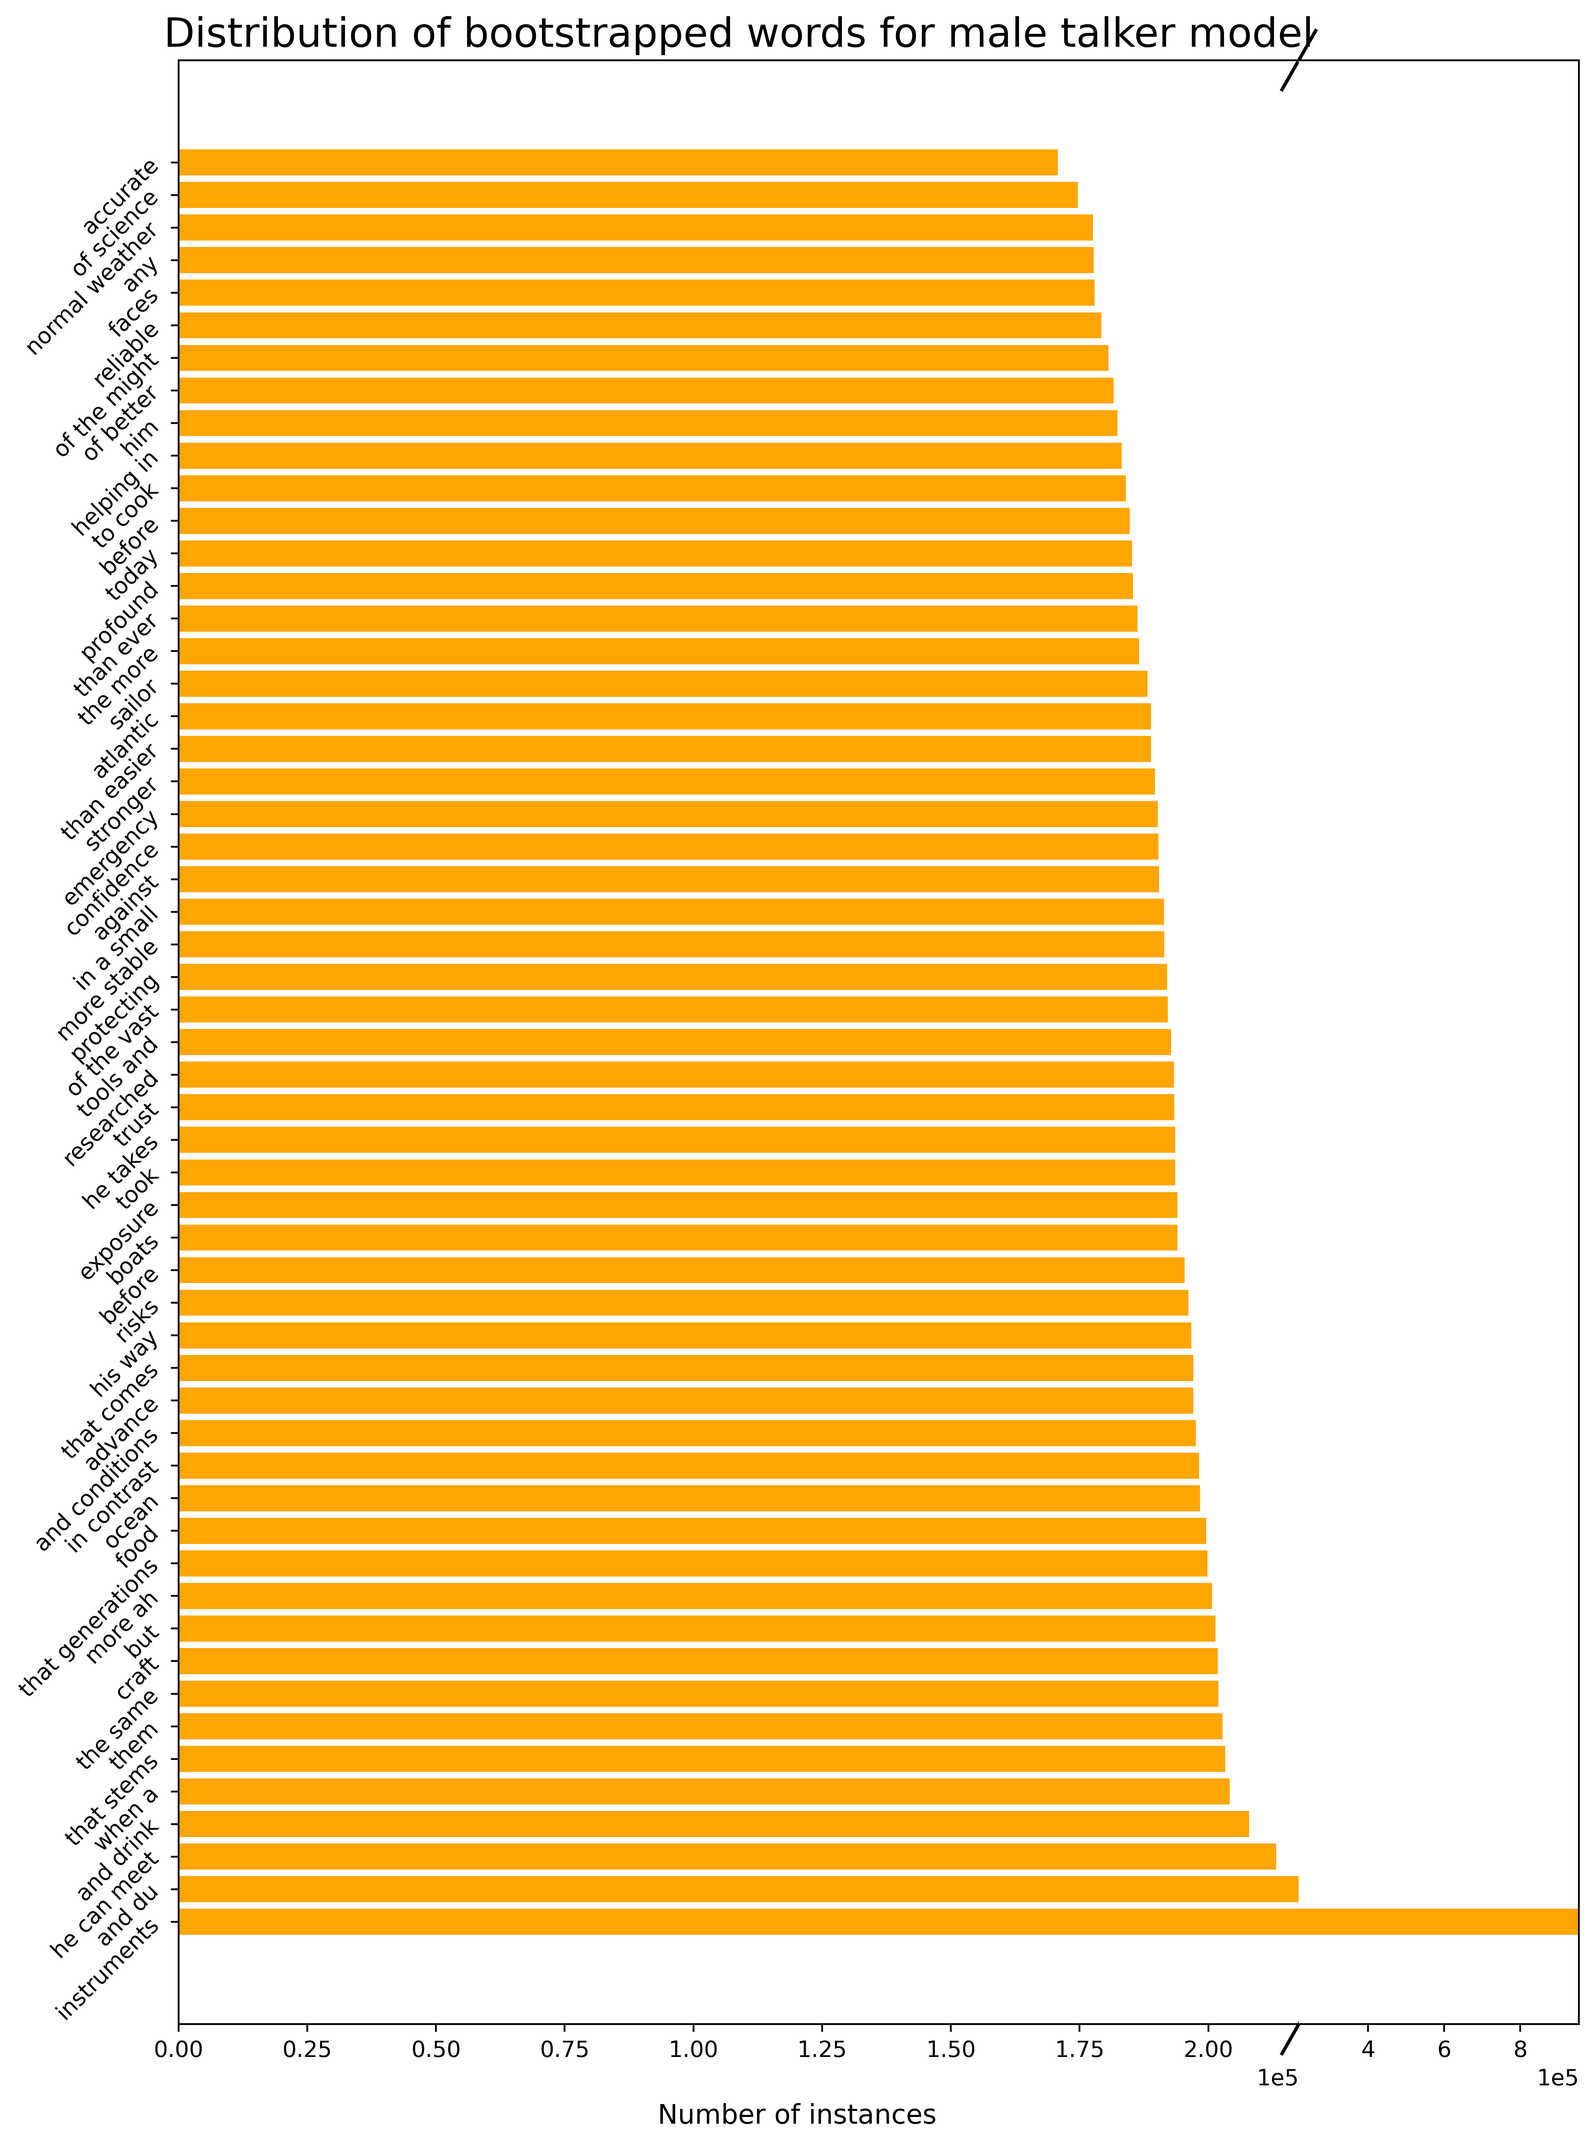
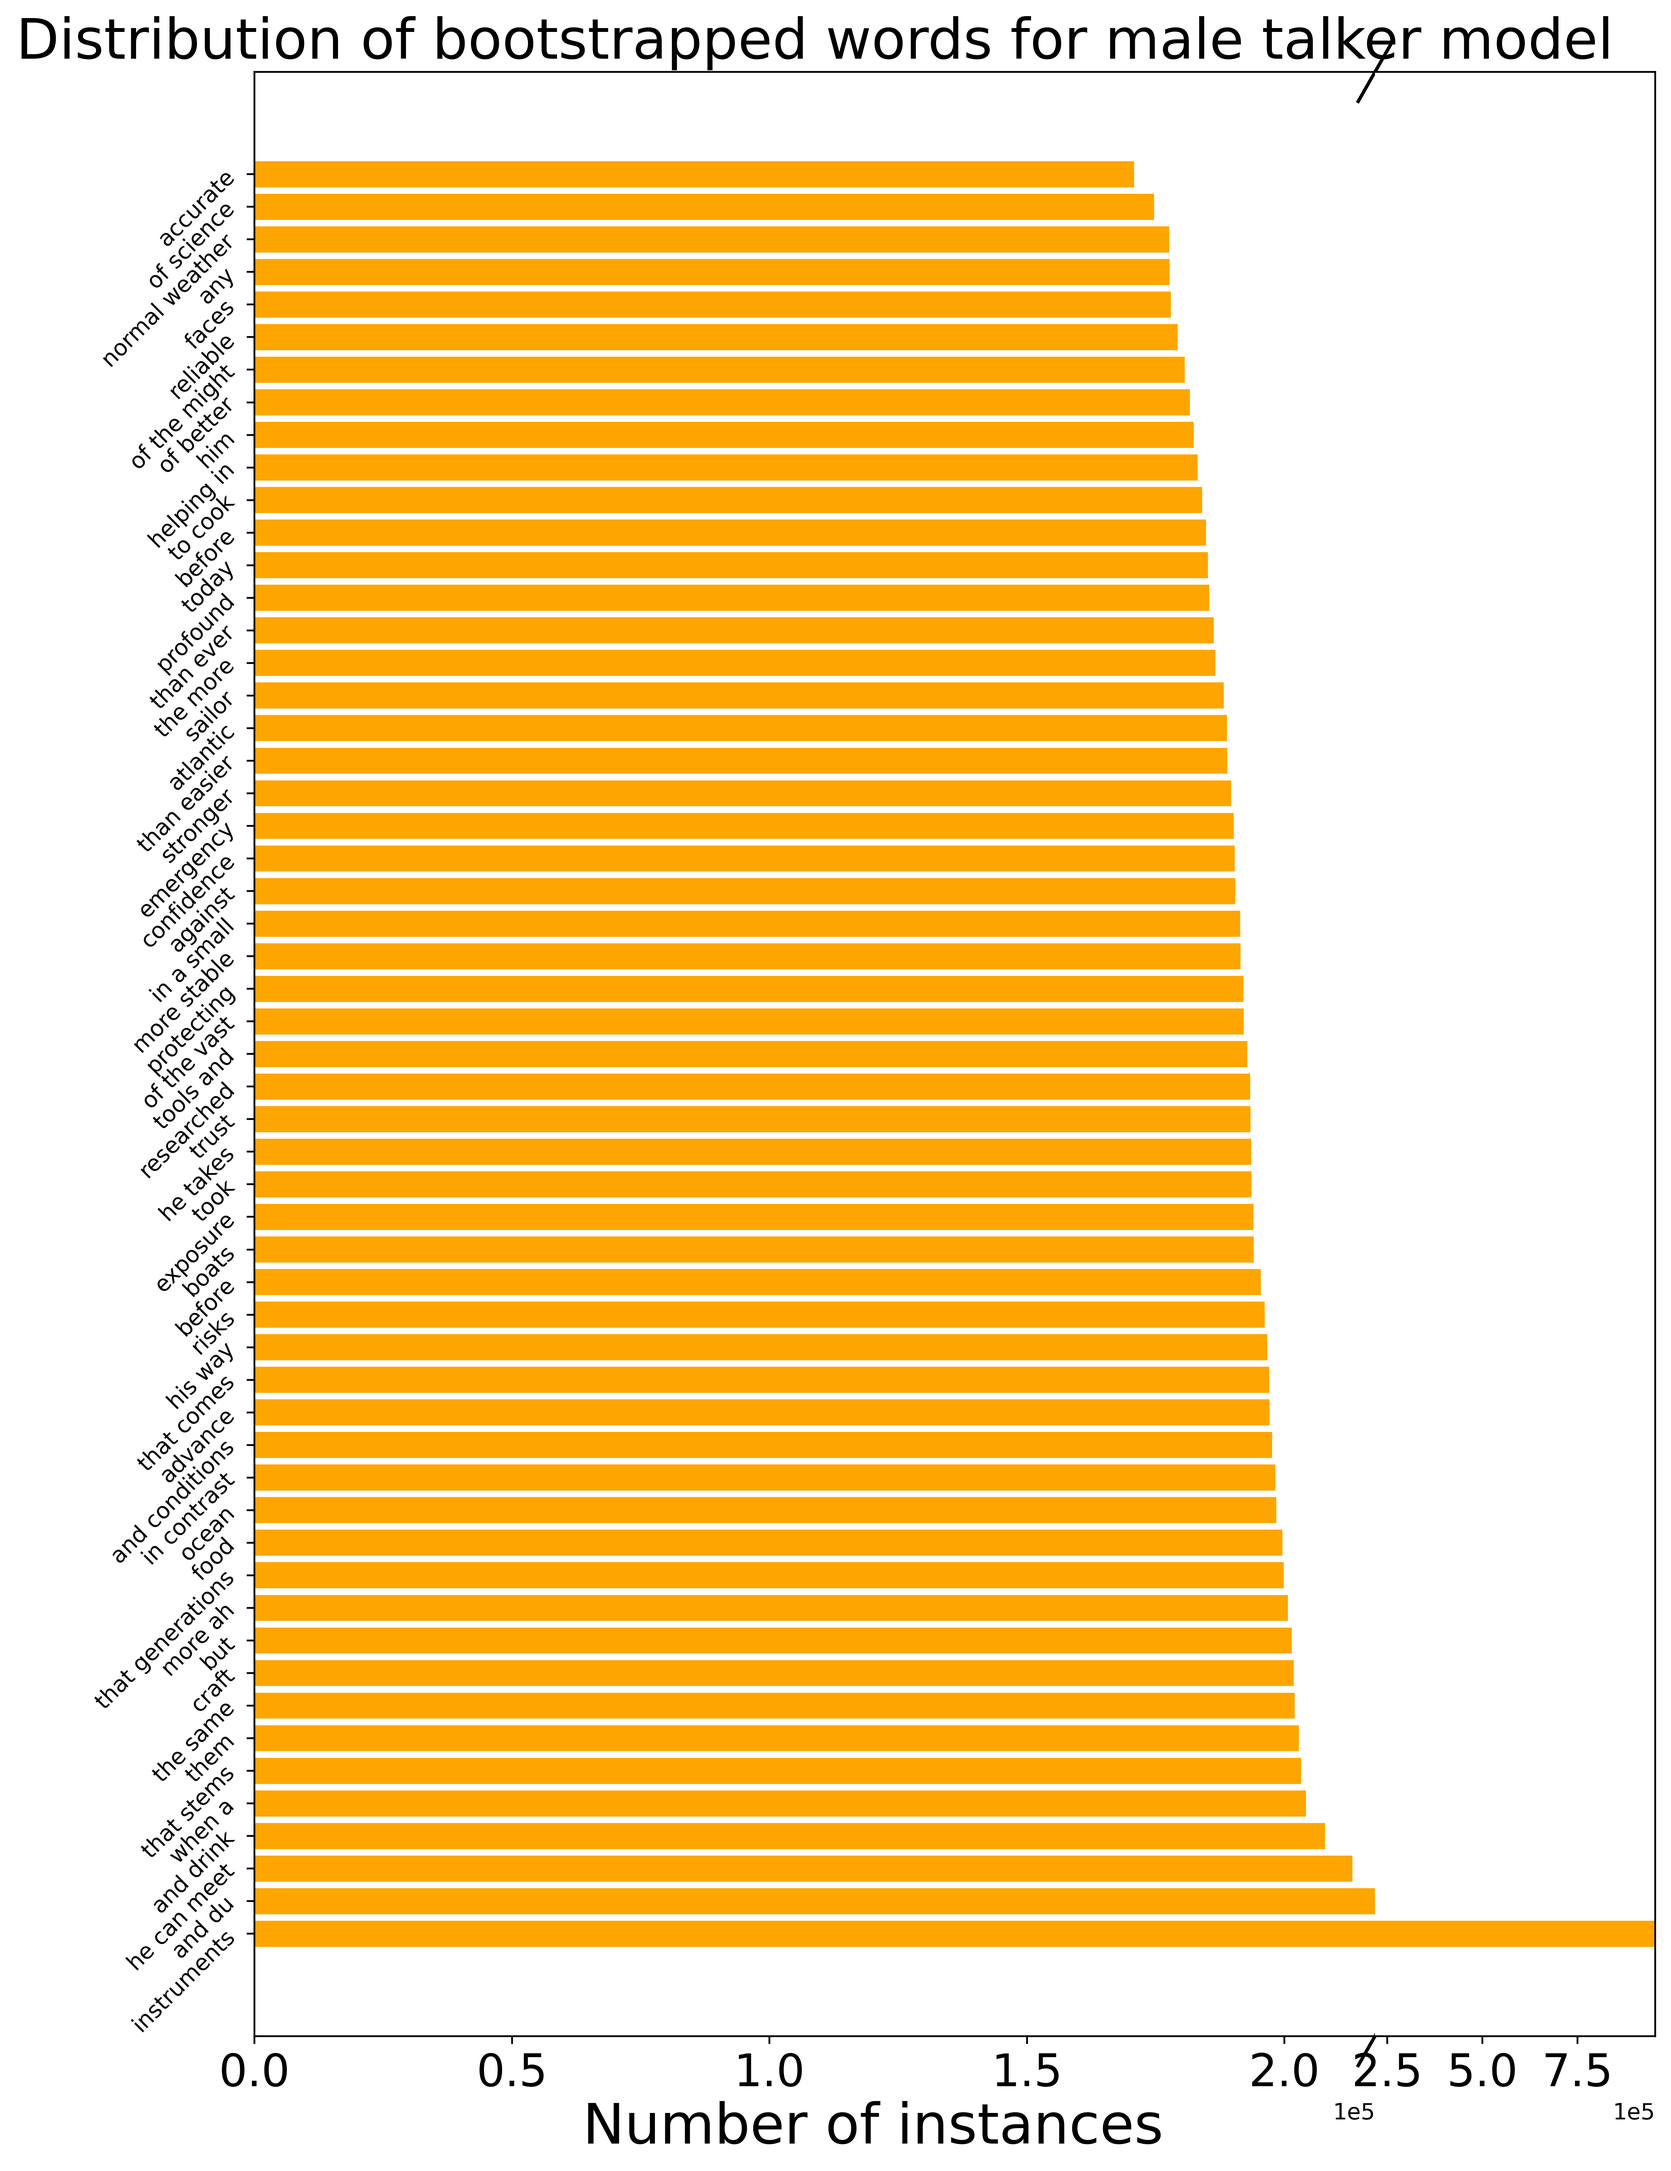
cleaning

diff --git a/models/reactiontimeforFAandtargmodel.py b/models/reactiontimeforFAandtargmodel.py
@@ -1092,13 +1092,17 @@ def extract_releasedata_withdist(ferrets, talker=1, bootstrap_words = True):
         kwargs = dict(transform=ax1.transAxes, color='k', clip_on=False)
         ax1.plot((1 - d, 1 + d), (-d, +d), **kwargs)
         ax1.plot((1 - d, 1 + d), (1 - d, 1 + d), **kwargs)
+        #increase the font size of the x ticks
+        ax1.tick_params(axis='x', labelsize=20)
+        ax2.tick_params(axis='x', labelsize=20)
+
 
         # Add a common x-axis label
-        fig.text(0.5, 0.00, 'Number of instances', ha='center', va='center', fontsize=12)
+        fig.text(0.5, 0.00, 'Number of instances', ha='center', va='center', fontsize=25)
         if talker == 1:
-            ax1.set_title('Distribution of bootstrapped words for female talker model', fontsize=18)
+            ax1.set_title('Distribution of bootstrapped words for female talker model', fontsize=25)
         else:
-            ax1.set_title('Distribution of bootstrapped words for male talker model', fontsize=18)
+            ax1.set_title('Distribution of bootstrapped words for male talker model', fontsize=25)
 
         # Display the chart
         plt.savefig(os.path.join('D:\mixedeffectmodelsbehavioural/models/figs/absolutereleasemodel/', str(talker) + '_distcounts_plot.png'), dpi=500, bbox_inches='tight')
@@ -1431,9 +1435,6 @@ def compare_bootstrap_permutation_test_results():
     array_female_bootstrap_reordered = np.array(array_female_bootstrap_reordered)
 
 
-
-
-
     #make a dataframe with the permutation importance values out of the two permutation importance arrays
     female_df = pd.DataFrame(array_female_raw[:,2].astype(float), columns=['permutation_importance'], index = array_female_raw[:,0] )
     female_df['permutation_importance_bootstrap'] = array_female_bootstrap_reordered[:,2].astype(float)
@@ -1444,7 +1445,7 @@ def compare_bootstrap_permutation_test_results():
     #remove instruments from both dataframes
     female_df = female_df[female_df.index != 'instruments']
     male_df = male_df[male_df.index != 'instruments']
-    fig, ax = plt.subplots(figsize = (20,5))
+    fig, ax = plt.subplots(figsize = (10,5))
     # plt.scatter(x=female_df['permutation_importance'], y=female_df['permutation_importance_bootstrap'], color='purple')
     sns.scatterplot(data = female_df, x='permutation_importance', y='permutation_importance_bootstrap', color='purple', label = 'female')
     sns.scatterplot(data= male_df, x='permutation_importance', y='permuation_importance_bootstrap', color='darkorange', label = 'male')
@@ -1457,25 +1458,27 @@ def compare_bootstrap_permutation_test_results():
     ax.set_xlim(0, 0.03)
     ax.set_ylim(0, 0.04)
     #put spearman correlation in a text box
-    plt.annotate(f"Spearman's correlation female: {spearman_corr_female:.2f}, spearman's correlation male: {spearman_corr_male:.2f}",
+    plt.annotate(f"spearman's correlation female: {spearman_corr_female:.2f}, \n spearman's correlation male: {spearman_corr_male:.2f}",
                  xy=(0.05, 0.95), xycoords='axes fraction',
-                 fontsize=12, ha='left', va='top', color='black')
-    ax.legend()
-    ax.set_xlabel('Permutation importance without bootstrapping')
-    ax.set_ylabel('Permutation importance with bootstrapping')
-    plt.title('Permutation Importance vs Permutation Importance with Subsampling')
-    plt.savefig('D:\mixedeffectmodelsbehavioural\models/figs/absolutereleasemodel/permutation_importance_vs_permutation_importance_with_subsampling.png')
+                 fontsize=15, ha='left', va='top', color='black')
+    ax.legend(fontsize=12, loc = 'lower right')
+    ax.set_xlabel('Permutation importance \n without subsampling', fontsize = 18)
+    ax.set_ylabel('Permutation importance \n  with subsampling', fontsize = 18)
+    plt.title('Permutation Importances vs Permutation Importances with Subsampling', fontsize = 18)
+    plt.savefig('D:\mixedeffectmodelsbehavioural\models/figs/absolutereleasemodel/permutation_importance_vs_permutation_importance_with_subsampling.png', bbox_inches='tight')
     plt.show()
+    return
 
 
 
 
 def main():
+    # compare_bootstrap_permutation_test_results()
     ferrets = ['F1702_Zola', 'F1815_Cruella', 'F1803_Tina', 'F2002_Macaroni', 'F2105_Clove']
     # ferrets = ['F1815_Cruella']# , 'F2105_Clove']
     # ferrets = ['F1815_Cruella', 'F1803_Tina', 'F2002_Macaroni', 'F2105_Clove']
 
-    predict_rxn_time_with_dist_model(ferrets, optimization=False, ferret_as_feature=False, talker=1, noise_floor=False, bootstrap_words=False)
+    predict_rxn_time_with_dist_model(ferrets, optimization=False, ferret_as_feature=False, talker=2, noise_floor=False, bootstrap_words=True)
 
     # for ferret in ferrets:
     #     predict_rxn_time_with_dist_model([ferret], optimization=False, ferret_as_feature=False, talker = 1)
